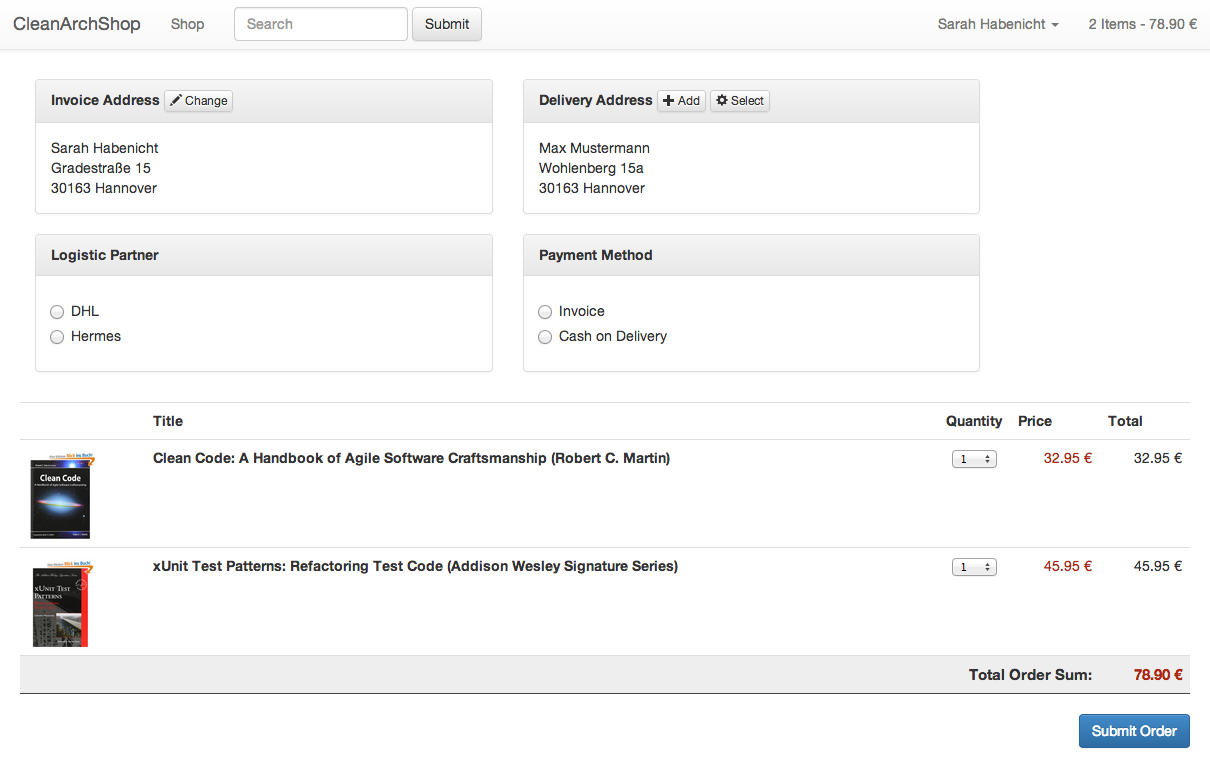
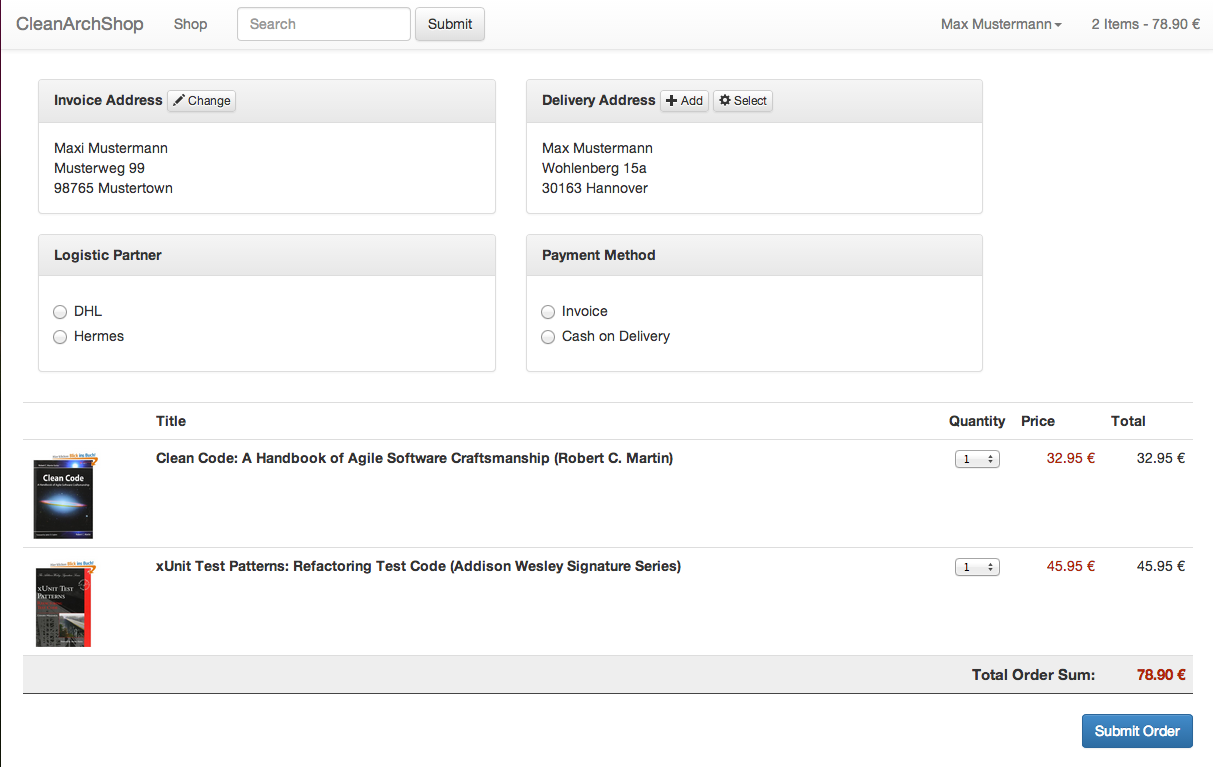
Add new screenshot

diff --git a/README.md b/README.md
@@ -21,4 +21,7 @@ Screenshots:
 ============
 
 ![screenshot](screenshot.png)
+
+Registered Customer:
+====================
 ![screenshot](screenshot_registered.png)
